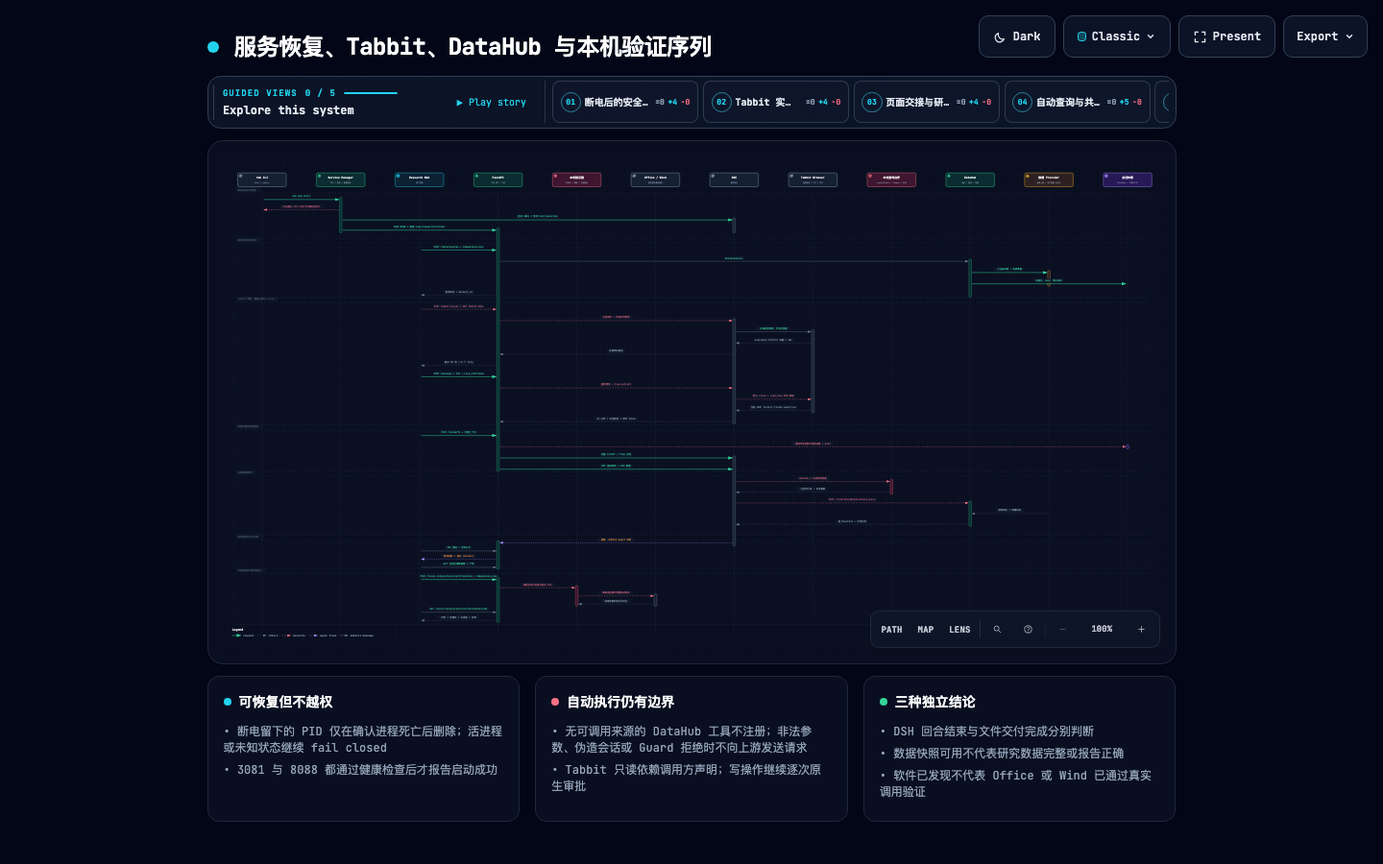
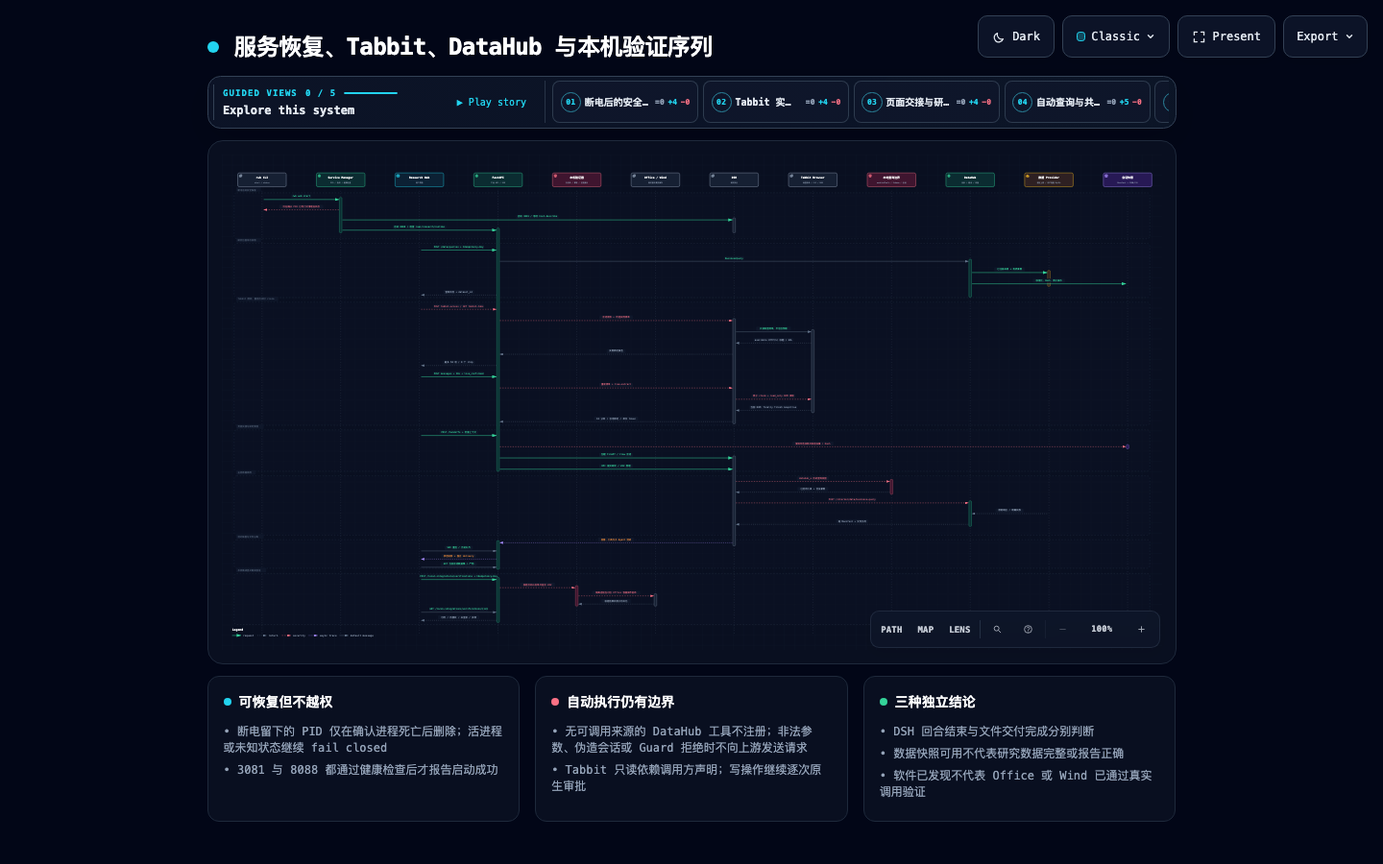
fix(research-web): stabilize mac Office verification

diff --git a/outputs/research-web-architecture/03-research-sequence.html b/outputs/research-web-architecture/03-research-sequence.html
@@ -4840,7 +4840,7 @@
       </div>
     </div>
 
-    <script id="archify-guided-views-data" type="application/json">[{"id":"startup","label":"断电后的安全恢复","focus":["cli","manager","dsh","api"],"note":"启动器只删除能够确认进程已经死亡的旧状态；活进程、未知进程或指纹不一致仍然拒绝接管。"},{"id":"tabbitFlow","label":"Tabbit 实时标签","focus":["web","api","dsh","tabbit"],"note":"菜单展开才授权并取候选；发送前重验、原子 claim、一次读 DOM，最后只传递短 token。"},{"id":"submit","label":"页面交接与研究提交","focus":["web","api","snapshot","dsh"],"note":"页面先固化查询与筛选上下文，再创建目标会话；HTTP 受理不等于研究或文件完成。"},{"id":"automatic","label":"自动查询与共享快照","focus":["dsh","policy","datahub","provider","snapshot"],"note":"只有启动时确认有可调用来源的工具会注册；合法结果再按会话发布共享快照。"},{"id":"localVerification","label":"显式本机验证","focus":["web","api","localVerifier","office"],"note":"发现不启动软件；用户显式选择目标后，受管子进程才操作 Office 或 Wind 副本并返回安全结果。"}]</script>
+    <script id="archify-guided-views-data" type="application/json">[{"id":"startup","label":"断电后的安全恢复","focus":["cli","manager","dsh","api"],"note":"启动器只删除能够确认进程已经死亡的旧状态；活进程、未知进程或指纹不一致仍然拒绝接管。"},{"id":"tabbitFlow","label":"Tabbit 实时标签","focus":["web","api","dsh","tabbit"],"note":"菜单展开才授权并取候选；发送前重验、原子 claim、一次读 DOM，最后只传递短 token。"},{"id":"submit","label":"页面交接与研究提交","focus":["web","api","snapshot","dsh"],"note":"页面先固化查询与筛选上下文，再创建目标会话；HTTP 受理不等于研究或文件完成。"},{"id":"automatic","label":"自动查询与共享快照","focus":["dsh","policy","datahub","provider","snapshot"],"note":"只有启动时确认有可调用来源的工具会注册；合法结果再按会话发布共享快照。"},{"id":"localVerification","label":"显式本机验证","focus":["web","api","localVerifier","office"],"note":"发现不启动软件；用户显式选择目标后，受管子进程才在对应 Office 容器内操作 Office 或 Wind 副本并返回安全结果。"}]</script>
 
     <div class="guided-views no-print" id="guided-views" hidden aria-label="Guided diagram views">
       <button id="guided-view-prev" type="button" aria-label="Previous guided view" title="Previous guided view ([)">&#8592;</button>
@@ -5250,11 +5250,11 @@
         </g>
         </g>
 
-        <g data-edge-from="localVerifier" data-edge-to="office" data-edge-label="隔离进程操作受管临时副本" data-edge-key="35" data-edge-id="runVerification">
+        <g data-edge-from="localVerifier" data-edge-to="office" data-edge-label="隔离进程在对应 Office 容器操作副本" data-edge-key="35" data-edge-id="runVerification">
           <path data-composition-edge-from="localVerifier" data-composition-edge-to="office" data-composition-edge-id="runVerification" data-composition-points="1396,1728;1690,1728" d="M 1396 1728 L 1690 1728" class="a-security" stroke-width="1.4" marker-end="url(#arrowhead-security)"/>
         <g data-detail="context">
-          <rect x="1474.6" y="1708" width="136.8" height="16" rx="3" class="c-mask"/>
-          <text x="1543" y="1718" class="t-security" font-size="9" text-anchor="middle">隔离进程操作受管临时副本</text>
+          <rect x="1448.6" y="1708" width="188.8" height="16" rx="3" class="c-mask"/>
+          <text x="1543" y="1718" class="t-security" font-size="9" text-anchor="middle">隔离进程在对应 Office 容器操作副本</text>
         </g>
         </g>
 

diff --git a/tests/research_web/test_local_integrations.py b/tests/research_web/test_local_integrations.py
@@ -829,11 +829,14 @@ def test_verification_api_rejects_unknown_targets_and_requires_idempotency(tmp_p
 
 
 def test_macos_excel_verifier_uses_sandbox_file_and_owned_app(tmp_path, monkeypatch):
+    from app.research_web.report_workflows.workbook import XlwingsExcelProvider
+
     documents = tmp_path / "Documents"
     documents.mkdir()
     run_root = tmp_path / ("a" * 32)
     run_root.mkdir()
     values = {"A3": 42}
+    events = []
 
     class Range:
         def __init__(self, reference):
@@ -878,11 +881,17 @@ def test_macos_excel_verifier_uses_sandbox_file_and_owned_app(tmp_path, monkeypa
     app = App()
 
     monkeypatch.setattr(verifiers, "_office_documents_root", lambda _target: documents)
+    monkeypatch.setattr(
+        XlwingsExcelProvider,
+        "_activate_macos_appscript_compat",
+        staticmethod(lambda: events.append("appscript-compat")),
+    )
     monkeypatch.setitem(sys.modules, "xlwings", SimpleNamespace(App=lambda **_kwargs: app))
 
     result = verifiers._verify_excel_macos(run_root)
 
     assert result == {"outcome": "available", "code": None}
+    assert events == ["appscript-compat"]
     assert app.quit_called is True
     assert len(app.books.paths) == 2
     artifact = app.books.paths[0]
@@ -953,6 +962,15 @@ def test_macos_document_verifiers_use_office_sandbox(
 
     monkeypatch.setattr(verifiers, "_office_documents_root", lambda _target: documents)
     monkeypatch.setattr(verifiers, "_run_osascript", run_script)
+    if target == "powerpoint":
+        original_import = builtins.__import__
+
+        def reject_undeclared_pptx(name, *args, **kwargs):
+            if name == "pptx" or name.startswith("pptx."):
+                raise AssertionError("PowerPoint verification must not require python-pptx")
+            return original_import(name, *args, **kwargs)
+
+        monkeypatch.setattr(builtins, "__import__", reject_undeclared_pptx)
 
     assert verifier(run_root) == {"outcome": "available", "code": None}
     artifact = observed["artifact"]
@@ -961,6 +979,13 @@ def test_macos_document_verifiers_use_office_sandbox(
     assert observed["target_name"] == artifact.name
     assert "active document" not in observed["script"]
     assert "active presentation" not in observed["script"]
+    if target == "powerpoint":
+        script = observed["script"]
+        assert (
+            script.index("save smokePresentation in targetFile")
+            < script.index("set smokePresentation to presentation targetName")
+            < script.index("close smokePresentation")
+        )
     assert not artifact.exists()
 
 
@@ -1330,6 +1355,31 @@ def test_excel_artifact_cleanup_rejects_symlink(tmp_path, monkeypatch):
     assert verifiers._remove_office_artifact("excel", run_root) is False
     assert artifact.is_symlink()
     assert outside.read_bytes() == b"keep"
+
+
+def test_wind_verification_prepares_run_inside_excel_sandbox(tmp_path, monkeypatch):
+    state_root = tmp_path / "state"
+    excel_documents = tmp_path / "Excel Documents"
+    excel_documents.mkdir()
+    observed = []
+
+    monkeypatch.setattr(verifiers.sys, "platform", "darwin")
+    monkeypatch.setattr(
+        verifiers,
+        "_office_documents_root",
+        lambda target: excel_documents if target == "excel" else tmp_path,
+    )
+    monkeypatch.setattr(
+        verifiers,
+        "_prepare_run_directory",
+        lambda root: observed.append(root) or (None, "verification_storage_unsafe"),
+    )
+
+    assert verifiers.verify_target("wind_excel", state_root) == {
+        "outcome": "failed",
+        "code": "verification_storage_unsafe",
+    }
+    assert observed == [excel_documents]
 
 
 def test_verification_run_storage_rejects_symlink(tmp_path):

diff --git a/app/research_web/local_integrations/verifiers.py b/app/research_web/local_integrations/verifiers.py
@@ -204,6 +204,9 @@ def _verify_excel_macos(
             seed.save(path)
         finally:
             seed.close()
+        from app.research_web.report_workflows.workbook import XlwingsExcelProvider
+
+        XlwingsExcelProvider._activate_macos_appscript_compat()
         import xlwings as xw
 
         app = xw.App(visible=False, add_book=False)
@@ -369,13 +372,7 @@ def _verify_powerpoint(run_root: Path) -> dict[str, Any]:
             pass
         else:
             return {"outcome": "failed", "code": "verification_storage_unsafe"}
-        from pptx import Presentation
-
-        seed = Presentation()
-        slide = seed.slides.add_slide(seed.slide_layouts[0])
-        slide.shapes.title.text = "Research Workbench seed"
-        seed.save(str(path))
-    except (ImportError, OSError) as exc:
+    except OSError as exc:
         log.warning(
             "local_powerpoint_verification_prepare_failed",
             error_type=type(exc).__name__,
@@ -388,10 +385,11 @@ set targetFile to POSIX file (item 1 of argv)
 set targetName to item 2 of argv
 tell application "Microsoft PowerPoint"
 try
-open targetFile
-set smokePresentation to presentation targetName
+set smokePresentation to make new presentation
+set smokeSlide to make new slide at end of smokePresentation with properties {layout:slide layout title slide}
 set content of text range of text frame of shape 1 of slide 1 of smokePresentation to "Research Workbench verification"
-save smokePresentation
+save smokePresentation in targetFile
+set smokePresentation to presentation targetName
 close smokePresentation
 set smokePresentation to missing value
 open targetFile
@@ -563,7 +561,8 @@ def verify_target(
     if sys.platform != "darwin":
         return {"outcome": "failed", "code": "unsupported_platform"}
     state_root = Path(state_root)
-    run_root, storage_error = _prepare_run_directory(state_root)
+    storage_root = _office_documents_root("excel") if target == "wind_excel" else state_root
+    run_root, storage_error = _prepare_run_directory(storage_root)
     if run_root is None:
         return {"outcome": "failed", "code": storage_error or "verification_storage_unsafe"}
     from app.research_web.report_workflows.workbook import (

diff --git a/.ai/reports/2026-09-10-mac-local-integrations-live.md b/.ai/reports/2026-09-10-mac-local-integrations-live.md
@@ -4,8 +4,8 @@
 
 - 保留本机软件发现探测的无副作用语义，新增显式、幂等、异步可查询的真实验证接口。
 - Excel、Word、PowerPoint 和 Wind Excel 仅在用户点击后进入受管目录与可终止子进程；Office 临时文件使用各应用容器内由验证 UUID 决定的名称，并在子进程与监督进程两层精确清理。
-- Excel 使用独立 `xlwings.App` 实例验证公式全量重算、保存、关闭、重新打开与读取，并在结束时退出本轮实例；Word/PPT 先生成安全种子文件，再使用 macOS AppleScript 完成真实修改、保存、关闭与重开读取。
-- Wind 从已管理的 `huaan-etf-weekly` 当前发布版本选择 Wind 工作簿策略，先刷新最小策略副本，再刷新全部策略副本；两级都复用既有锁、策略超时、必需单元格与源文件哈希保护。
+- Excel 使用独立 `xlwings.App` 实例验证公式全量重算、保存、关闭、重新打开与读取，并在结束时退出本轮实例；正式 `.venv` 复用报告刷新器的 macOS `aeosa` 兼容入口，不依赖隐藏目录下会被 Python 跳过的 `.pth`。Word 使用安全种子文件；PowerPoint 由 AppleScript 直接创建演示文稿，两者都完成真实修改、保存、关闭与重开读取，PowerPoint 不依赖未声明的 `python-pptx`。
+- Wind 从已管理的 `huaan-etf-weekly` 当前发布版本选择 Wind 工作簿策略，先刷新最小策略副本，再刷新全部策略副本；两级都复用既有锁、策略超时、必需单元格与源文件哈希保护。刷新运行目录放在 Excel 应用容器内并沿用 UUID、配额、保留期和精确清理规则，避免普通 Workbench 目录触发逐文件授权窗口。
 - 验证 worker 使用独立 POSIX 进程组，超时先 TERM 再 KILL 整个进程组；Wind 内层 Excel 实例在创建后、打开工作簿前即上报 PID，监督器只清理本轮上报实例。Windows 内部边界使用系统进程树终止命令。所有目标的业务预算为 180 秒，Wind 烟测与全量刷新共享该预算，每项策略超时会收窄到剩余时间；外层保留十秒清理协调宽限。
 - iFinD HTTP 使用既有客户端契约执行登录、健康检查、最小只读基础数据查询与关闭，不持久化 Token；空数据、鉴权、权限和配额失败不会标记健康。
 - 本机设置页按能力显示“真实验证”、运行中状态和独立的最近验证时间；未执行验证时不会把发现时间冒充验证时间，iFinD 继续链接数据源配置页。
@@ -20,6 +20,7 @@
 - `tests/javascript/research_web_local_integrations_ui.test.mjs`：按钮、加载、轮询、配置链接、ARIA 与 44px 操作目标。
 - 任务分支相关 Python 回归：`129 passed, 1 skipped`，本机设置 JavaScript 契约：`17 passed`。与最新主分支 Tabbit 功能合并后，相关 Python 回归为 `131 passed, 1 skipped`，本机与设置页 JavaScript 契约为 `18 passed`；Ruff、Black、isort、架构/文档同步门禁，以及使用 `--follow-imports=silent` 限定四个改动模块的 mypy 检查通过。
 - 首次正式重启复现项目 `.venv` 缺少 `psycopg2` 时服务管理器导入失败；`data_layer.adapters` 与 `data_layer.adapters.ifind` 改为按符号惰性装载后，同一 `.venv` 导入路径输出 `WebServiceManager` 且不再加载数据库或 SDK。相邻回归更新为 `132 passed, 1 skipped`，iFinD/CNINFO 单元测试 `11 passed`，相关 Ruff、Black、isort 通过。
+- 用户确认后，正式 `.venv` 安装项目既有 `excel` 可选组中的 `xlwings 0.37.2` 与 `appscript 1.3.0`；未改依赖声明或锁文件。新增回归在修复前分别复现 macOS 引擎未激活、PowerPoint 依赖未声明包以及 Wind 运行目录位于 Excel 沙箱之外，修复后 `test_local_integrations.py` 为 `42 passed, 1 skipped`。
 
 ## 2026-09-10 Mac 实机证据
 
@@ -30,6 +31,8 @@
 - Wind：终端已从登录窗口进入主窗口，WindAddin 与终端均已发现；登录后的真实验证 `5dba985e-a985-478f-9c09-5cb9155f6a73` 在约 170 秒后返回 `timeout`，因此保持不可调用。超时后未发现 Excel、osascript 或验证 worker 残留进程；发布源只读处理，未被写回。
 - iFinD HTTP：当前未配置账号与 Base URL，未执行厂商登录；macOS 本地 SDK 为不适用，HTTP 路径保持待配置。
 - 首轮 Wind 超时曾暴露 Excel PID 与 Office 容器文件清理缺口；本轮增加打开前 PID、启动时间与固定可执行命令组成的身份指纹上报，父进程只在身份复核匹配时兜底清理。重复超时验收未再出现残留，PID 被复用时也不会误杀其他进程。
+- 正式 `8088` 首轮验证中 Word 返回 `available`；Excel 因验证器未激活项目已有 `aeosa` 兼容入口而失败，PowerPoint 因误用正式环境未声明的 `python-pptx` 而失败。两项均已由 RED/GREEN 回归覆盖；Excel 修正后的本机独立烟测返回 `available`，PowerPoint 的创建、写入、保存、按随机名称重新绑定、关闭和重开脚本已在本机返回预期文本。
+- 正式 Wind 验证 `99ce4a97-a09a-4f20-b846-b37c6682b34c` 在用户批准 `.refreshing.xlsx` 文件访问后仍于约 171 秒返回 `timeout`；这证明登录与插件发现成立，但普通 Workbench 运行目录会消耗人工授权时间。本轮把 Wind 运行副本迁入 Excel 应用沙箱，需在修复发布并重启正式服务后重新形成最终调用证据。
 
 ## 验收边界
 

diff --git a/docs/architecture/research-web/04-api.md b/docs/architecture/research-web/04-api.md
@@ -163,7 +163,7 @@ Automation 仍属 Phase 2B/2C，在对应持久模型和安全边界落地前不
 - `GET /data/catalog` 与详情接口只读取静态目录；`POST /data/sources/{id}/probes` 才检测一个指定来源，使用 `Idempotency-Key` 去重。探测结果只返回安全化错误码和耗时，不返回凭据或上游正文。
 - `GET /data/connections` 汇总 22 个来源的配置、检测、适配和可调用状态；通用 configuration 接口只回传非秘密字段与 `secret_configured`。旧环境迁移必须先预览、再携带明确来源与二次确认执行，任一步失败均补偿恢复配置、凭据和 `.env`。
 - `GET /local-integrations` 返回本机集成的安全四维状态；`POST /local-integrations/probes` 要求 `Idempotency-Key` 并返回 202 与独立任务 ID，查询接口只返回安全化状态或错误。服务端只允许一个真实探测执行，使用固定字段与安全操作路由白名单，并对无副作用检测设置时限；超时结果不会落盘。v0 探测不启动软件，不返回命中路径、注册表值、命令参数或环境变量。
-- `POST /local-integrations/verifications` 仅接受 Excel、Word、PowerPoint 与 Wind Excel 白名单目标并要求 `Idempotency-Key`；查询接口返回安全化进度与结果。验证只操作服务生成的临时文件或已管理报告版本的副本，Office/Wind 进程及超时清理由服务端绑定本轮身份管理。
+- `POST /local-integrations/verifications` 仅接受 Excel、Word、PowerPoint 与 Wind Excel 白名单目标并要求 `Idempotency-Key`；查询接口返回安全化进度与结果。验证只操作服务生成的临时文件或已管理报告版本的副本；macOS 的 Office/Wind 副本固定在对应 Office 容器内，PowerPoint 不要求 `python-pptx`，Office/Wind 进程及超时清理由服务端绑定本轮身份管理。
 - 研究取数只使用 `internal/data/business-query`，接受稳定业务能力、白名单来源 ID 和能力限定参数；旧产品前缀工具及其平行查询接口已经移除。浏览器不能直接调用 internal 入口。
 - 研究台查询和交接均使用 `Idempotency-Key` 并经过串行准入。交接在创建目标会话前验证请求中的数据集归属，并限制页面上下文为 64 KiB；查询受理或 DSH 回合结束均不等于报告交付完成。
 - 报告 Workflow API 管理具体报告版本包；运行只允许已启用且有当前版本的项目。`report-projects` 是迁移期后端兼容接口，没有独立产品导航或第二执行引擎，新页面只使用 `report-workflows`。

diff --git a/docs/architecture/research-web/05-security-validation.md b/docs/architecture/research-web/05-security-validation.md
@@ -10,7 +10,7 @@
 | FastAPI → MCP Registry | 官方端点固定 `/v0.1`，私有 Registry 仅显式配置；认证 Registry 只允许 HTTPS，无认证 HTTP 仅限 `127.0.0.1` / `localhost` / `::1`，OAuth 端点始终为 HTTPS，客户端不跟随重定向；同名身份隔离、游标不解释、ETag 与最后成功缓存原子提交 | `mcp_registry/` / `test_mcp_registry.py`、MCP 市场 JS/E2E |
 | Registry 凭据 → 系统凭据库 | Bearer/OAuth 秘密只存 Keyring `ResearchWorkbench.MCPRegistry`；索引、缓存、日志和响应不含秘密 | `mcp_registry/credentials.py` / `test_mcp_registry.py` |
 | Registry 文本 → 浏览器 | schema 校验与长度限制后保存 Unicode plain text，拒绝 control/surrogate；数据层不做 entity escape，最终 HTML sink 单次转义且不热链图标 | `mcp_registry/models.py`、`ui/mcp-marketplace.mjs` / Python、JS、E2E |
-| 本机诊断 → 宿主 | 发现只读取标准位置/注册项/模块；真实验证须显式触发并限制目标、Office 容器内确定名称的临时文件、独立进程组和超时；Excel 使用本轮独立实例，Wind 在打开工作簿前上报本轮 Excel PID供精确清理；投影排除绝对路径、秘密、命令与环境变量 | `local_integrations/`、`report_workflows/workbook.py` / `test_local_integrations.py`、`test_report_workflows.py` |
+| 本机诊断 → 宿主 | 发现只读取标准位置/注册项/模块；真实验证须显式触发并限制目标、Office 容器内确定名称的临时文件、独立进程组和超时；Excel 使用本轮独立实例，PowerPoint 保存后按随机文件名重新绑定本轮对象，Wind 副本固定在 Excel 容器且在打开前上报本轮 Excel PID 供精确清理；投影排除绝对路径、秘密、命令与环境变量 | `local_integrations/`、`report_workflows/workbook.py` / `test_local_integrations.py`、`test_report_workflows.py` |
 | FastAPI → DSH | 固定回环 RPC、共享有界认证控制读取、文件身份/别名检查、方法白名单、双事件通道 | `runtime_auth.py`、`client.py` / `test_runtime_auth.py`、`test_protocol.py`、`test_event_recovery.py` |
 | 服务管理 → 私有目录 | 拒绝非目录、符号链接和 Windows 重解析点；POSIX 检查 group/other mode 位，Windows 不将 mode 投影当作 ACL | `service_manager.py` / `test_service_manager.py` |
 | 用户 → 会话文件 | 会话归属、规范路径、安全文件描述符、有限上传体积和类型 | `store.py`、`main.py` / `test_store.py`、`test_artifacts.py` |

diff --git a/docs/architecture/research-web/01-system.md b/docs/architecture/research-web/01-system.md
@@ -53,7 +53,7 @@ Windows 读取 DSH 认证文件、DataHub 私有控制/收据/快照和会话下
 - DataHub 私有原始响应与会话可读数据集分开。所有共享资料仍绑定目标会话及原始哈希，不提供任意路径读取接口。
 - DataHub 非秘密连接配置位于 `connections/`；密码、Token 和账号池秘密只存运行 8088 的操作系统用户凭据库。API 仅返回 `secret_configured`，浏览器提交后立即清空秘密字段。
 - MCP Registry 非秘密配置、ETag、游标与最后成功缓存位于数据根的 `mcp-registry/`；目录元数据是有界 Unicode plain text，API 原样投影，UI 仅在最终 HTML sink 转义。Bearer/OAuth 秘密只进入 Keyring 服务 `ResearchWorkbench.MCPRegistry`。认证 Registry 仅使用 HTTPS，无认证 HTTP 仅限精确 loopback，OAuth 端点始终使用 HTTPS。官方与私有 Registry 的同名服务器按身份三元组隔离。
-- 最新本机诊断安全投影原子写入 `local-integrations/local-integrations.json`，权限限制为当前用户；真实验证副本位于有界、定期清理的 `local-integrations/verification-runs/`，不持久化探测到的绝对路径、命令参数、环境变量或秘密。
+- 最新本机诊断安全投影原子写入 `local-integrations/local-integrations.json`，权限限制为当前用户；Excel、Word、PowerPoint 的真实验证副本位于各自 Office 容器内，Wind 刷新副本也在 Excel 容器的有界 `verification-runs/` 中执行并精确清理，避免普通 Workbench 路径触发逐文件授权。不持久化探测到的绝对路径、命令参数、环境变量或秘密。
 - 原生凭据只存在专属 DSH 私有目录，不提供给研究脚本环境。
 - Tabbit 页面访问授权只存在于当前 Research Runtime 生命周期；实时正文 token 绑定当前会话、单次消费并在 10 分钟后过期。
 - 迁移只复制研究状态和 DSH 会话索引；凭据、运行时 overlay、临时文件、旧控制令牌与日志不复制。新实例需要在设置页重新授权模型。

diff --git a/docs/architecture/research-web/review-record.md b/docs/architecture/research-web/review-record.md
@@ -461,3 +461,14 @@
 <!-- architecture-review {"group":"datahub","structure":"unchanged","reason":"iFinD HTTP探测补齐登录、健康、只读查询和登出，继续复用既有连接配置与系统凭据库，不新增DataHub服务或存储。","diagrams":[]} -->
 <!-- architecture-review {"group":"capabilities","structure":"unchanged","reason":"本机页只链接并消费既有报告Workflow元数据进行受管副本验证，不改变Skill、Tool或Workflow的发布与调用拓扑。","diagrams":[]} -->
 <!-- architecture-review {"group":"ui","structure":"unchanged","reason":"本机设置页在既有诊断列表增加逐项验证按钮、进度和最近验证时间，不新增产品壳或页面模块。","diagrams":[]} -->
+
+## 2026-09-11 — Mac Office/Wind 沙箱验证修正
+
+- Excel 验证复用报告刷新器已有的 macOS `aeosa` 兼容入口，避免隐藏虚拟环境跳过 `appscript` 路径后把已安装自动化桥误判为失败。
+- PowerPoint 改由 AppleScript 直接创建演示文稿，并在另存为后按随机文件名重新绑定本轮对象；不新增或隐式依赖 `python-pptx`。
+- Wind 的烟测和完整刷新继续使用已发布工作簿的只读源，但所有运行副本迁入 Excel 应用容器内的有界验证目录，避免逐文件授权窗口占用验证预算。HTTP 路由、状态 schema、DSH 和报告 Workflow 边界不变。
+- 图 03 更新本机验证消息，明确受管子进程在对应 Office 容器内操作副本；参与者与其他业务序列不变。
+
+<!-- architecture-review {"group":"research-api","structure":"changed","reason":"本机验证运行副本从通用状态目录收敛到对应Office容器，并修正PowerPoint对象生命周期；API与状态schema不变。","diagrams":["03-research-sequence"]} -->
+
+<!-- architecture-review {"group":"runtime","structure":"changed","reason":"Office与Wind验证子进程改用对应Office容器的受管运行目录，进程身份、超时和清理协议保持不变。","diagrams":["03-research-sequence"]} -->

diff --git a/docs/architecture/research-web/02-research-runtime.md b/docs/architecture/research-web/02-research-runtime.md
@@ -30,7 +30,7 @@ Tabbit 配置和 Runtime 锁文件固定按 UTF-8 读写。POSIX 继续使用文
 
 `GET/PUT /api/research/runtime/tabbit` 提供安全状态与配置；`POST .../tabbit-access` 管理本会话授权；`GET .../tabbit-tabs` 提供候选清单。Runtime 状态只允许 `ready | disabled | launcher_missing | browser_offline | unsupported_version | instance_selection_required | error`。安装器显式禁用；缺失、离线或版本过低时只返回诊断和官方手动安装指引。
 
-`ResearchService` 同时持有进程内本机集成诊断管理器，并在服务关闭时取消未完成的发现或验证任务。发现只读取宿主事实；真实验证必须由设置页显式触发，目标限于 Excel、Word、PowerPoint 与 Wind Excel，并在独立进程组及受管临时目录内执行。该管理器只服务设置页的安全主机事实投影，不进入 DSH 会话、工具注册、研究执行或事件恢复链。
+`ResearchService` 同时持有进程内本机集成诊断管理器，并在服务关闭时取消未完成的发现或验证任务。发现只读取宿主事实；真实验证必须由设置页显式触发，目标限于 Excel、Word、PowerPoint 与 Wind Excel，并在独立进程组及对应 Office 容器的受管临时目录内执行。PowerPoint 保存后按随机文件名重新绑定本轮对象；Wind 运行目录固定落在 Excel 容器，从而不依赖交互式逐文件授权。该管理器只服务设置页的安全主机事实投影，不进入 DSH 会话、工具注册、研究执行或事件恢复链。
 
 `app/research_web/operations.py` 只读取上述原生历史、当前投影和服务管理器状态，生成不含问题正文、审批参数或凭据的监控结果。它不参与提交、恢复或取消；历史事件未提供 usage 时返回未知，不以零替代。研究台通过 `workbench.py` 创建目标 DSH 会话后，后续提交仍完全遵守本页协议。
 

diff --git a/docs/research-web-tabbit.md b/docs/research-web-tabbit.md
@@ -100,4 +100,4 @@ Python/API、Node adapter、前端交互和 Runtime staging 可用模拟 Runtime
 合并。该调整不改变通用桌面 Windows 发布前仍需真实安装级冒烟的门禁。Research Workbench 本身
 仍不下载或升级 Tabbit。
 
-设置页与 Office/Wind 本机诊断共存时，Tabbit 仍只读取自身 Runtime 状态与配置；本机软件发现或真实验证的忙碌态不会改变 Tabbit 开关、实例选择或重启标记，Tabbit 的健康结果也不会参与 Office/Wind 的可调用结论。
+设置页与 Office/Wind 本机诊断共存时，Tabbit 仍只读取自身 Runtime 状态与配置；本机软件发现或真实验证的忙碌态不会改变 Tabbit 开关、实例选择或重启标记，Tabbit 的健康结果也不会参与 Office/Wind 的可调用结论。Office/Wind 验证副本迁入对应 Office 容器只改变本机文件访问边界，不改变 Tabbit 的页面授权、claim、一次性 token 或浏览器数据生命周期。
